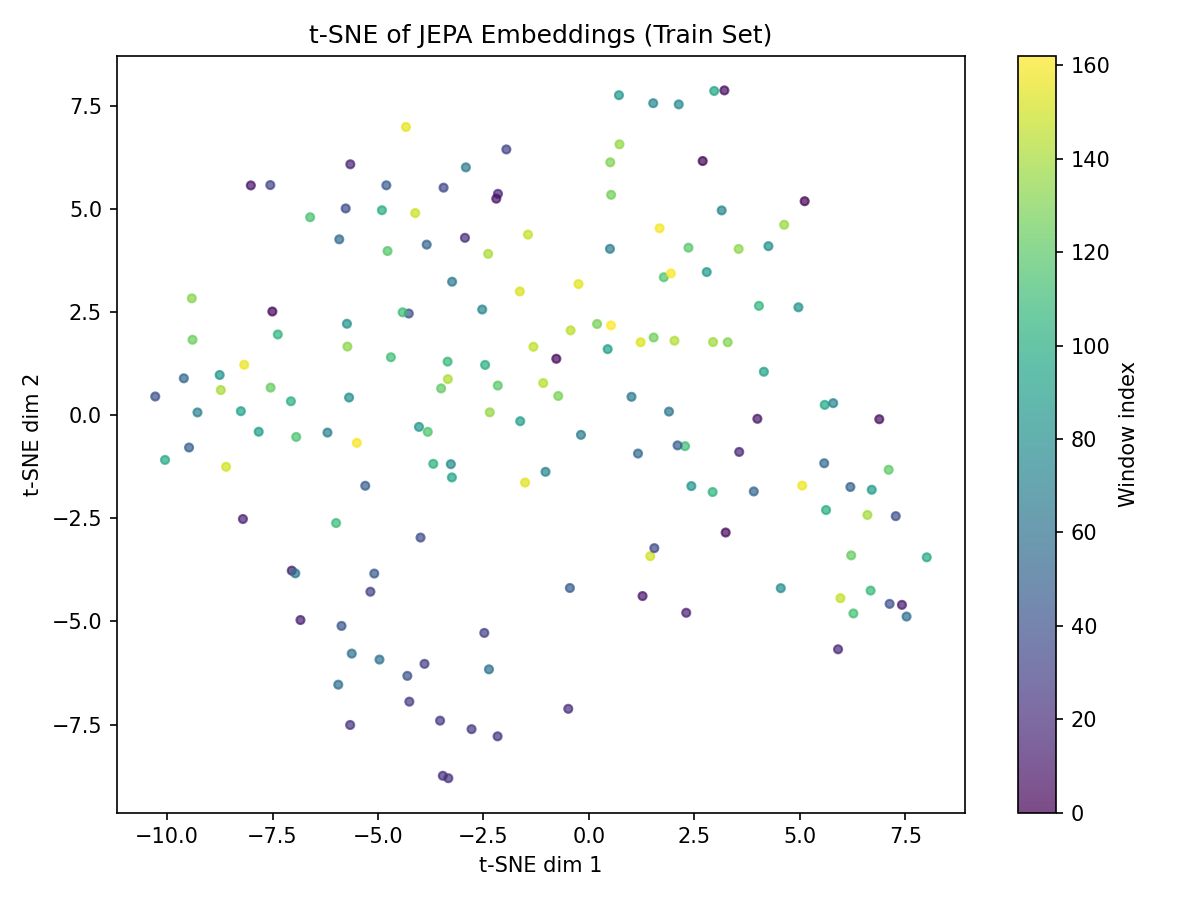
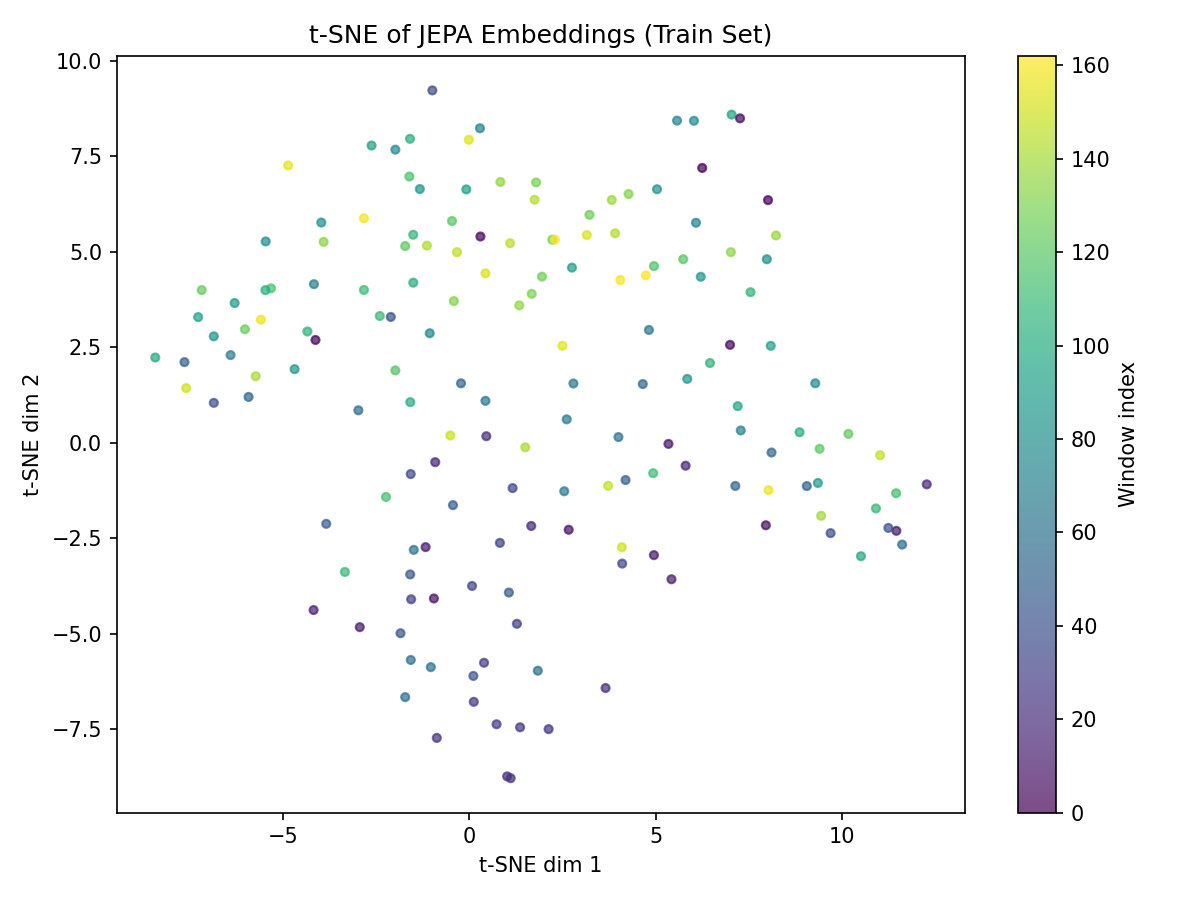
docs: add jepa model evaluation report and update test/config to epoch 50

diff --git a/test_jepa_embeddings.py b/test_jepa_embeddings.py
@@ -22,7 +22,7 @@ from individual_stocks.data_class_parquet import StockMarketJEPADataset
 from individual_stocks.dataextraction import DataExtractor
 
 # --- Config ----------------------------------------------------------------
-MODEL_PATH    = "jepa-model/model_epoch_20.pt"
+MODEL_PATH    = "jepa-model/model_epoch_50.pt"
 TRAIN_PARQUET = "individual_stocks/parquet_data/sector_etf_clean_trainingset.parquet"
 TEST_PARQUET  = "individual_stocks/parquet_data/sector_etf_clean_testingset.parquet"
 OUTPUT_DIR    = "jepa-model/analysis"
@@ -207,8 +207,8 @@ all_features = pd.concat([
 data_np = all_features.values.astype(np.float32)
 print(f"Full feature matrix: {data_np.shape} (days x 49)")
 
-xlk_col = all_features.columns.get_loc(PROBE_TICKER)
-xlk_returns_aligned = all_features[PROBE_TICKER].values.astype(np.float32)
+xlk_returns_aligned = etf_lr.loc[all_features.index, PROBE_TICKER].values.astype(np.float32)
+xlk_col = etf_lr.columns.get_loc(PROBE_TICKER)
 
 windows_49, labels_sliding = [], []
 for i in range(len(data_np) - ENC_NUM_PATCHES - 1):
